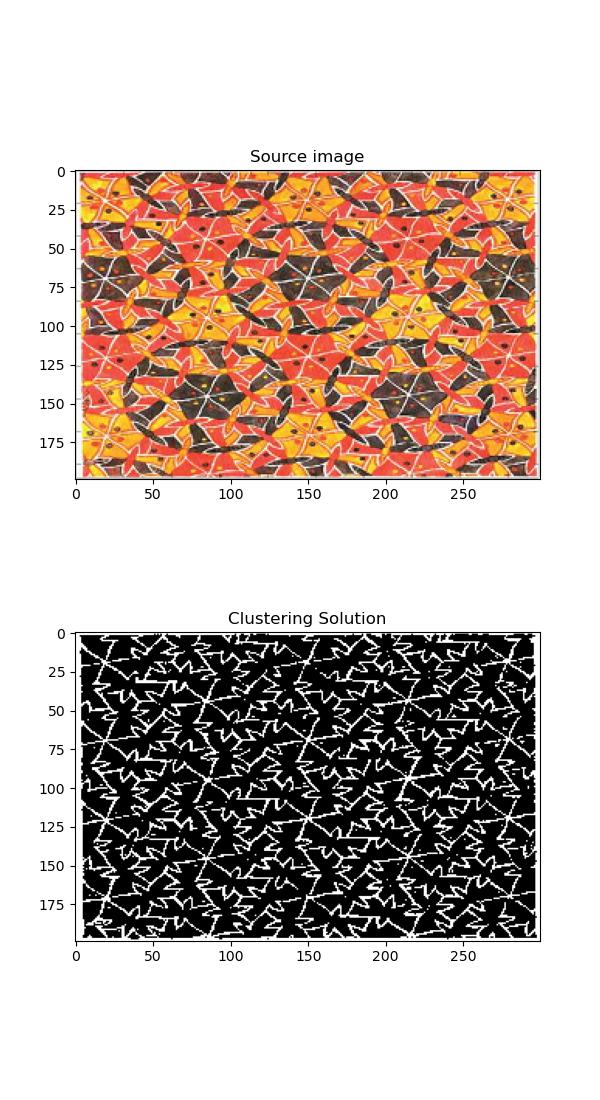
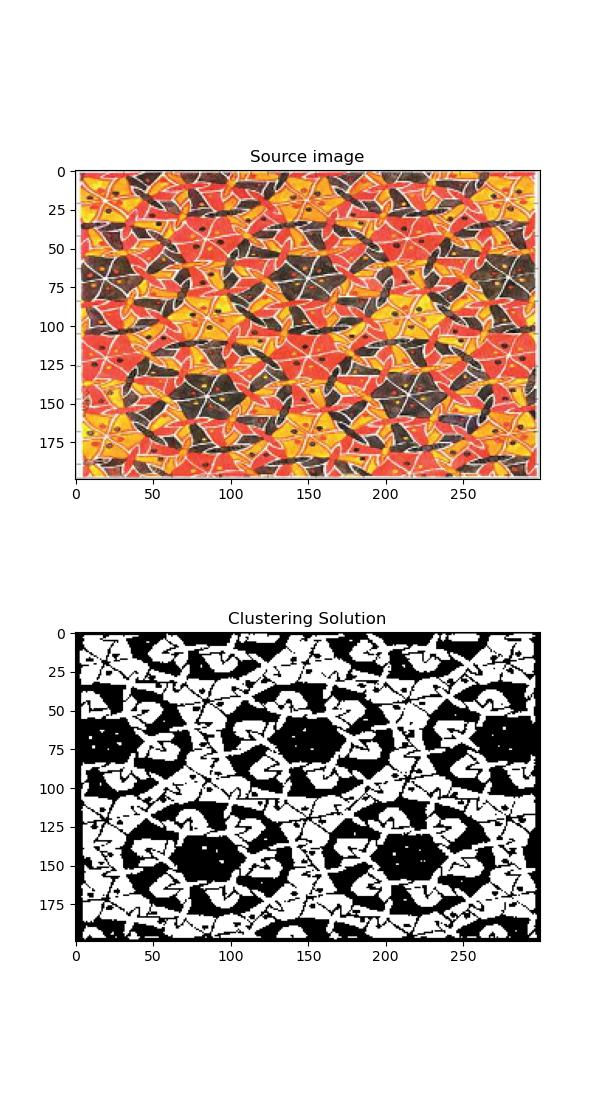
updates

Changed region(s): [[0.12, 0.5564, 0.9, 0.8655]]

diff --git a/main.py b/main.py
@@ -225,9 +225,14 @@ def randProjClusterings(X, n_clusters, n_views, n_projections, dis_metric='dist_
 	
 	P      = np.array(P); print(n_projections, 'projections and clusterings are generated.')
 	A      = affinity(P, affinity_metric=dis_metric); print('Clusterings dissimilarity matrix is generated.')
+	'''
 	aggMdl = AgglomerativeClustering( n_clusters = n_views, linkage="average", metric="precomputed", compute_distances=True ).fit(A)
 	Y      = aggMdl.fit_predict(A); print('Clusterings are groupped with an agglomeartive model.')
 	plotDendrogram(aggMdl, Y)
+	'''
+	_ , Y = dbscan(A, eps=1,min_samples=3, metric="precomputed")
+	
+	
 	
 	'''
 	# we can call a function to filter the clusterings from the linkage matrix
